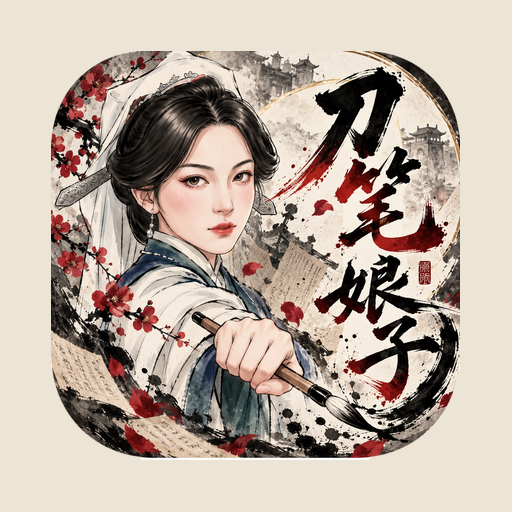
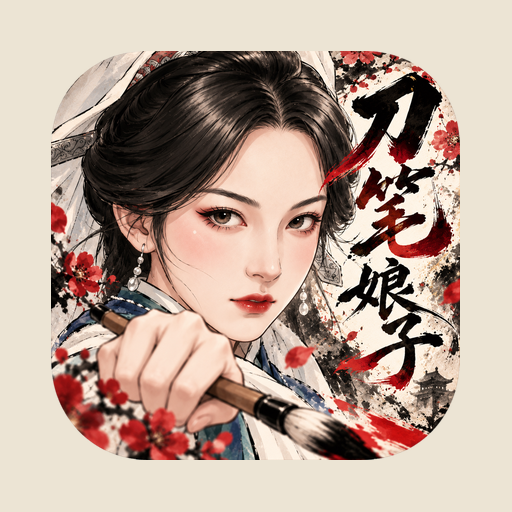
App 图标换成新的刀笔娘子插画
- 重新生成 192/512/maskable/apple-touch/favicon 全套图标
- sw.js 缓存版本升为 v4

Claude-Session: https://claude.ai/code/session_01WrdJamJUcFHkNkrbbJwzpx

diff --git a/sw.js b/sw.js
@@ -1,6 +1,6 @@
 // 网络优先:有网时永远取最新的页面与 data.json,断网时才用缓存,
 // 这样更新网站内容后,手机上的 app 下次打开就会看到新数据。
-const CACHE = 'wjy-drames-v3';
+const CACHE = 'wjy-drames-v4';
 const CORE = [
   './',
   'index.html',
